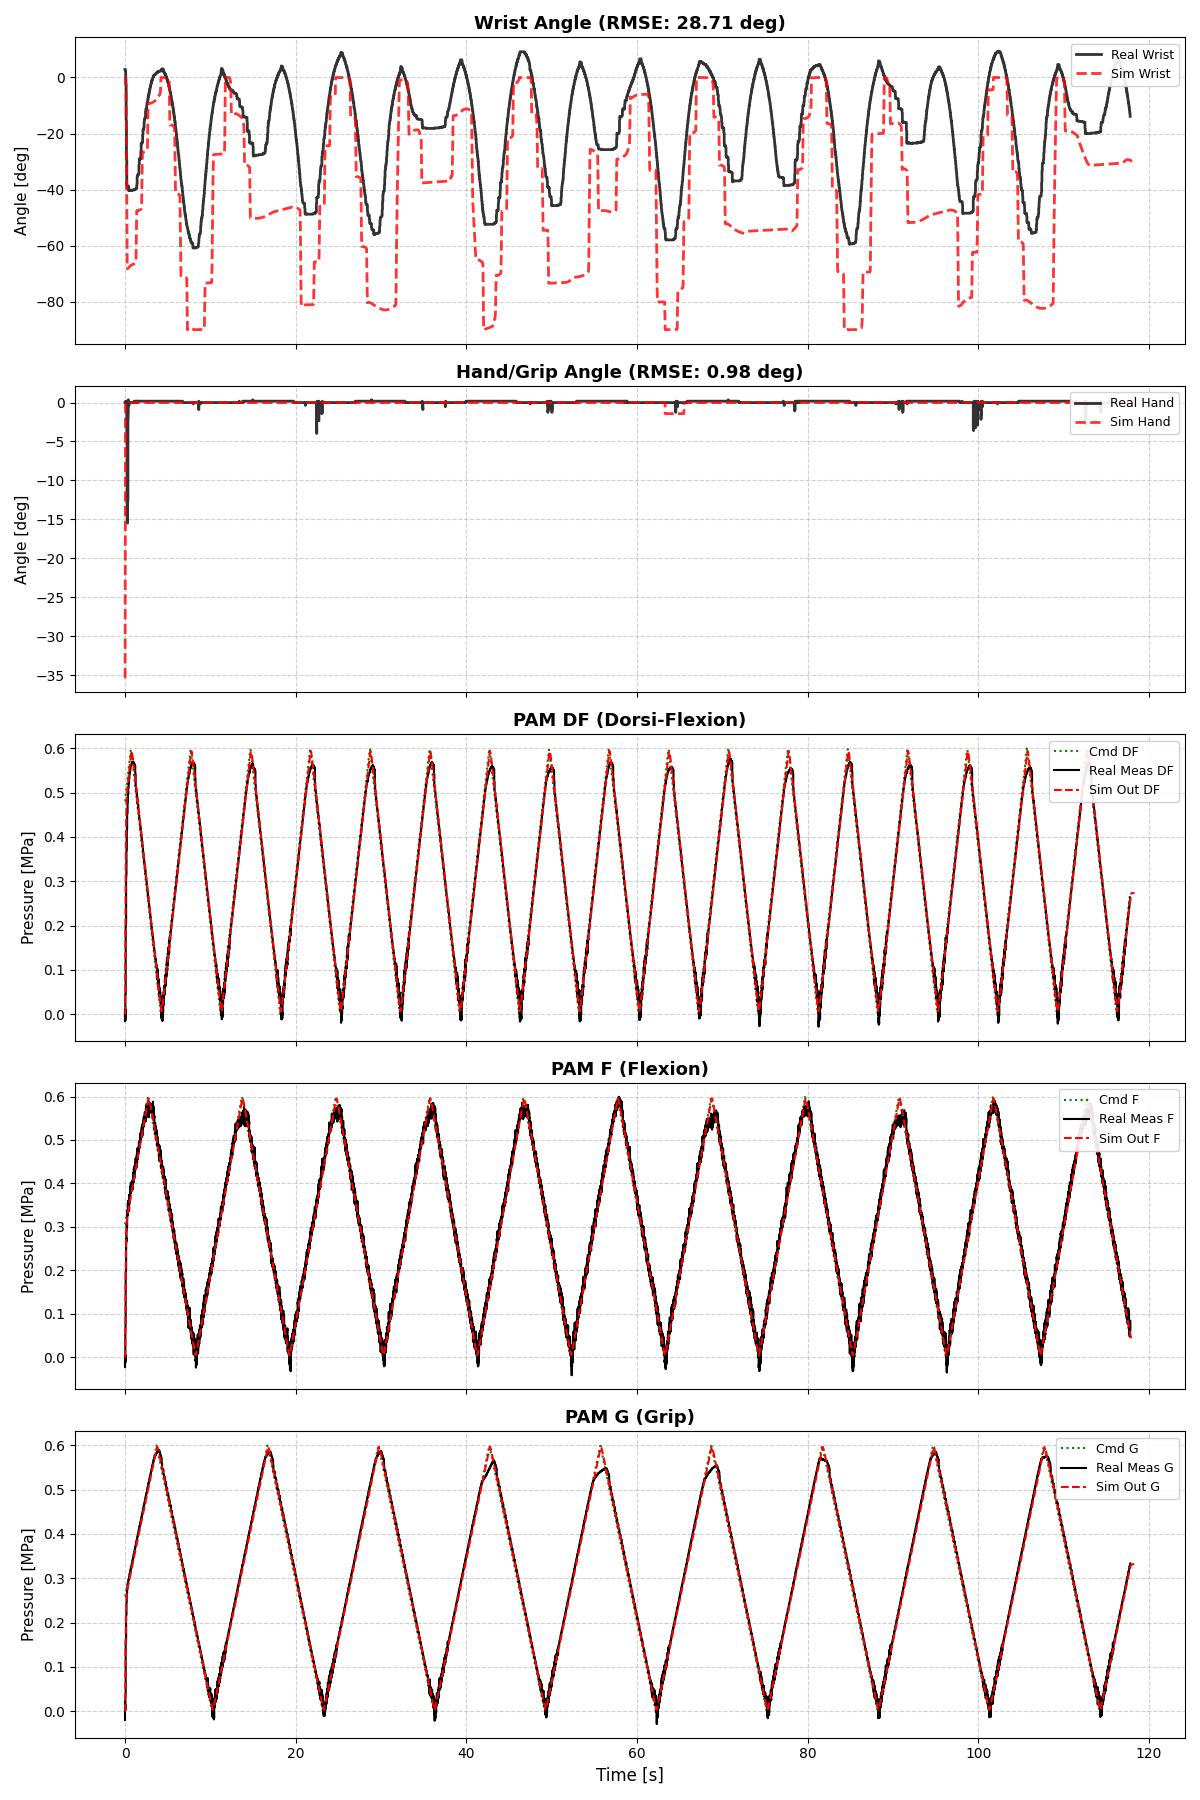
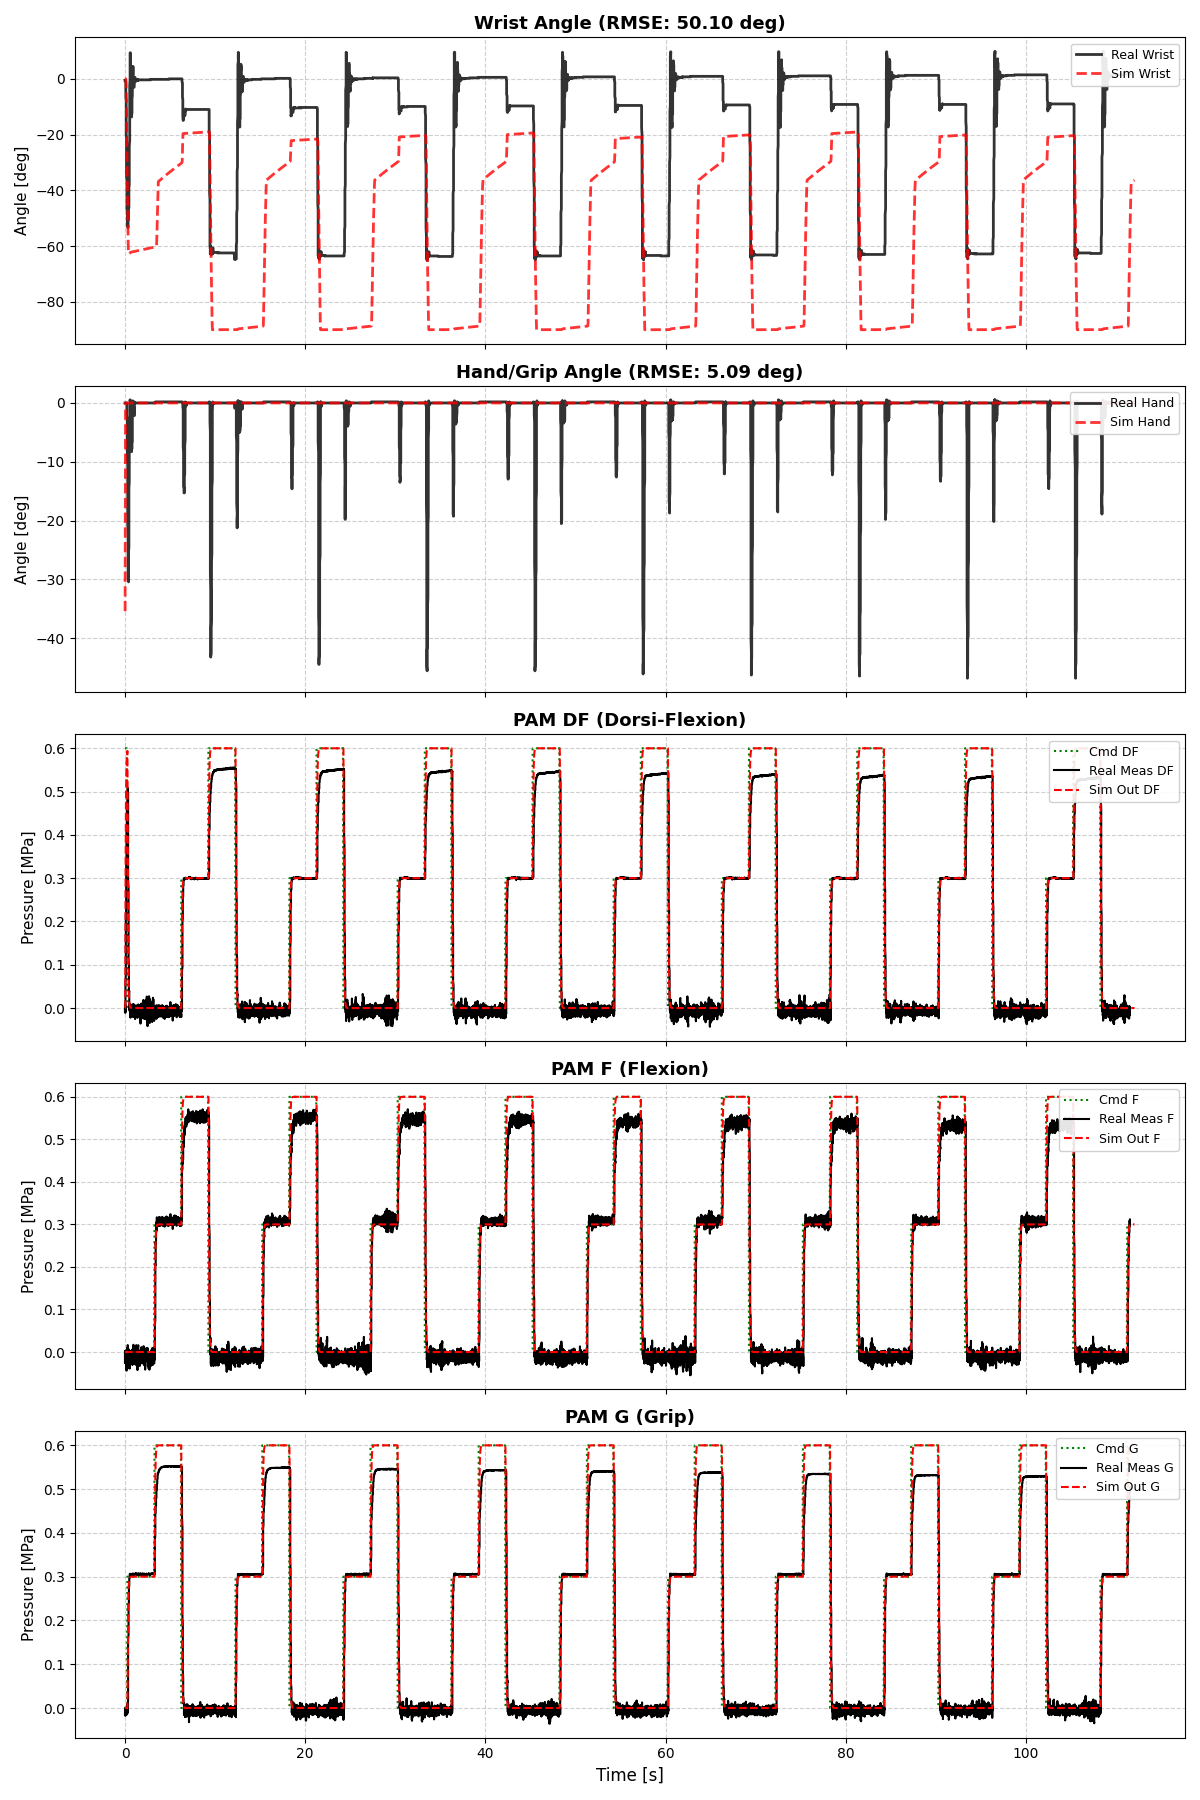
using_simple_generator

diff --git a/source/porcaro_rl/porcaro_rl/tasks/direct/porcaro_rlv1/simple_rhythm_generator.py b/source/porcaro_rl/porcaro_rl/tasks/direct/porcaro_rlv1/simple_rhythm_generator.py
@@ -1,0 +1,118 @@
+# simple_rhythm_generator.py
+import torch
+import torch.nn.functional as F
+import numpy as np
+
+class SimpleRhythmGenerator:
+    """
+    Sim-to-Realデバッグ用の単純なリズム生成クラス。
+    固定パターン（Rudiments）を繰り返し生成し、基礎動作の習得を確認する。
+    """
+    def __init__(self, num_envs, device, dt, max_episode_length, 
+                 mode="single", bpm=60.0):
+        
+        self.num_envs = num_envs
+        self.device = device
+        self.dt = dt
+        self.max_steps = max_episode_length
+        
+        # --- 設定 ---
+        self.mode = mode  # "single", "double", "steady"
+        self.target_bpm = bpm
+        
+        # --- データバッファ ---
+        self.target_trajectories = torch.zeros(
+            (num_envs, max_episode_length), device=device, dtype=torch.float32
+        )
+        # 固定BPMで埋めておく
+        self.current_bpms = torch.full((num_envs,), bpm, device=device, dtype=torch.float32)
+        
+        # --- 波形生成用カーネル (RhythmGeneratorと共通仕様) ---
+        width_sec = 0.05
+        sigma = width_sec / 2.0
+        kernel_radius = int(width_sec / dt) 
+        t_vals = torch.arange(-kernel_radius, kernel_radius + 1, device=device, dtype=torch.float32) * dt
+        kernel = 20.0 * torch.exp(-0.5 * (t_vals / sigma) ** 2)
+        self.kernel = kernel.view(1, 1, -1)
+        self.kernel_padding = kernel_radius
+
+    def set_difficulty(self, level: float):
+        # シンプルモードでは難易度調整は行わない（API互換性のためのダミー）
+        pass
+
+    def reset(self, env_ids):
+        """
+        指定された環境IDに対して固定パターンの譜面を生成する。
+        """
+        num_reset = len(env_ids)
+        if num_reset == 0:
+            return
+
+        # スパイク行列の初期化
+        spikes = torch.zeros((num_reset, self.max_steps), device=self.device)
+        
+        # モードに応じたロジック
+        if self.mode == "single":
+            # 2秒に1回叩く (Sim-to-Realでの応答確認用)
+            interval_sec = 2.0
+            interval_steps = int(interval_sec / self.dt)
+            
+            # 0.5秒後から開始
+            start_step = int(0.5 / self.dt)
+            
+            for t in range(start_step, self.max_steps, interval_steps):
+                spikes[:, t] = 1.0
+
+        elif self.mode == "double":
+            # 2連打 (タタン……休み)
+            # サイクル: 2秒
+            cycle_sec = 2.0
+            cycle_steps = int(cycle_sec / self.dt)
+            
+            # 2打の間隔: 0.2秒 (速めの連打)
+            double_interval = int(0.2 / self.dt)
+            start_step = int(0.5 / self.dt)
+
+            for t in range(start_step, self.max_steps, cycle_steps):
+                if t < self.max_steps:
+                    spikes[:, t] = 1.0
+                if t + double_interval < self.max_steps:
+                    spikes[:, t + double_interval] = 1.0
+
+        elif self.mode == "steady":
+            # メトロノーム (一定BPMで叩き続ける)
+            beat_interval_sec = 60.0 / self.target_bpm
+            beat_steps = int(beat_interval_sec / self.dt)
+            
+            for t in range(int(0.5/self.dt), self.max_steps, beat_steps):
+                spikes[:, t] = 1.0
+
+        # --- 畳み込みによる波形生成 ---
+        spikes_reshaped = spikes.unsqueeze(1) # [Batch, 1, Length]
+        traj = F.conv1d(spikes_reshaped, self.kernel, padding=self.kernel_padding)
+        traj = traj.squeeze(1)
+        
+        # サイズ調整
+        if traj.shape[1] > self.max_steps:
+            traj = traj[:, :self.max_steps]
+        elif traj.shape[1] < self.max_steps:
+            traj = F.pad(traj, (0, self.max_steps - traj.shape[1]))
+
+        self.target_trajectories[env_ids] = traj
+        
+        # BPM情報は固定値を維持
+        self.current_bpms[env_ids] = self.target_bpm
+
+    def get_lookahead(self, current_time_step_indices, horizon_steps):
+        """GPU並列で先読みデータを取得 (RhythmGeneratorと同等)"""
+        offsets = torch.arange(horizon_steps, device=self.device)
+        indices = current_time_step_indices.unsqueeze(1) + offsets.unsqueeze(0)
+        valid_mask = indices < self.max_steps
+        safe_indices = indices.clamp(max=self.max_steps - 1)
+        vals = torch.gather(self.target_trajectories, 1, safe_indices)
+        return vals * valid_mask.float()
+
+    def get_current_target(self, current_time_step_indices):
+        """現在のターゲット値を取得"""
+        indices = current_time_step_indices.unsqueeze(1).clamp(max=self.max_steps-1)
+        return torch.gather(self.target_trajectories, 1, indices).squeeze(1)

diff --git a/source/porcaro_rl/porcaro_rl/tasks/direct/porcaro_rlv1/porcaro_rl_env.py b/source/porcaro_rl/porcaro_rl/tasks/direct/porcaro_rlv1/porcaro_rl_env.py
@@ -22,6 +22,7 @@ from .actions.torque import TorqueActionController
 from .logging.logging_manager import LoggingManager
 from .rewards.reward import RewardManager
 from .rhythm_generator import RhythmGenerator
+from .simple_rhythm_generator import SimpleRhythmGenerator
 
 
 class PorcaroRLEnv(DirectRLEnv):
@@ -116,24 +117,46 @@ class PorcaroRLEnv(DirectRLEnv):
             device=self.device,
         )
 
-        # リズム生成器
-        bpm_range = (
-            getattr(self.cfg.rewards, "bpm_min", 60.0),
-            getattr(self.cfg.rewards, "bpm_max", 160.0)
-        )
-        prob_rest = getattr(self.cfg.rewards, "prob_rest", 0.3)
-        prob_double = getattr(self.cfg.rewards, "prob_double", 0.2)
+        # =========================================================
+        # ★ 変更箇所: リズム生成器の切り替えロジック
+        # =========================================================
         self.dt_ctrl_step = self.cfg.sim.dt * self.cfg.decimation
+        
+        # Configに追加したフラグを確認 (デフォルトFalseとして安全に取得)
+        use_simple = getattr(self.cfg, "use_simple_rhythm", False)
 
-        self.rhythm_generator = RhythmGenerator(
-            num_envs=self.num_envs,
-            device=self.device,
-            dt=self.dt_ctrl_step,
-            max_episode_length=self.max_episode_length,
-            bpm_range=bpm_range,
-            prob_rest=prob_rest,
-            prob_double=prob_double
-        )
+        if use_simple:
+            # デバッグ用の単純生成器を使用
+            mode = getattr(self.cfg, "simple_rhythm_mode", "single")
+            bpm = getattr(self.cfg, "simple_rhythm_bpm", 60.0)
+            
+            print(f"[INFO] SimpleRhythmGeneratorを使用します (Mode: {mode}, BPM: {bpm})")
+            self.rhythm_generator = SimpleRhythmGenerator(
+                num_envs=self.num_envs,
+                device=self.device,
+                dt=self.dt_ctrl_step,
+                max_episode_length=self.max_episode_length,
+                mode=mode,
+                bpm=bpm
+            )
+        else:
+            # 本番学習用のランダム生成器を使用
+            bpm_range = (
+                getattr(self.cfg.rewards, "bpm_min", 60.0),
+                getattr(self.cfg.rewards, "bpm_max", 160.0)
+            )
+            prob_rest = getattr(self.cfg.rewards, "prob_rest", 0.3)
+            prob_double = getattr(self.cfg.rewards, "prob_double", 0.2)
+            
+            self.rhythm_generator = RhythmGenerator(
+                num_envs=self.num_envs,
+                device=self.device,
+                dt=self.dt_ctrl_step,
+                max_episode_length=self.max_episode_length,
+                bpm_range=bpm_range,
+                prob_rest=prob_rest,
+                prob_double=prob_double
+            )
         
         lookahead_horizon = getattr(self.cfg, "lookahead_horizon", 0.5)
         self.lookahead_steps = int(lookahead_horizon / self.dt_ctrl_step)

diff --git a/source/porcaro_rl/porcaro_rl/tasks/direct/porcaro_rlv1/porcaro_rl_env_cfg.py b/source/porcaro_rl/porcaro_rl/tasks/direct/porcaro_rlv1/porcaro_rl_env_cfg.py
@@ -75,6 +75,13 @@ class PorcaroRLEnvCfg(DirectRLEnvCfg):
     
     dof_names: list[str] = ["Base_link_Wrist_joint", "Hand_link_Grip_joint"]
 
+    # ===================================================
+    # ★ 追加箇所: シンプルリズム生成設定
+    # ===================================================
+    use_simple_rhythm: bool = True   # TrueにするとSimpleRhythmGeneratorを使用
+    simple_rhythm_mode: str = "single" # "single", "double", "steady"
+    simple_rhythm_bpm: float = 60.0    # steadyモード時のBPM
+
     # --- 追加設定 ---
     lookahead_horizon: float = 0.5
 

diff --git a/scripts/analyze_sim_real.py b/scripts/analyze_sim_real.py
@@ -19,8 +19,8 @@ def main():
 
     # 実機データとSimデータのファイル名
     # ※ 必要に応じてファイル名を変更してください
-    real_csv_name = "01-11-hysteresis.csv"
-    sim_csv_name = "verify_ModelA_Ideal_REPLAY_01-11-hysteresis.csv"
+    real_csv_name = "01-11-step.csv"
+    sim_csv_name = "verify_ModelA_Ideal_REPLAY_01-11-step.csv"
 
     real_csv_path = os.path.join(project_root, "external_data", "jetson_project", real_csv_name)
     sim_csv_path = os.path.join(project_root, sim_csv_name)

diff --git a/source/porcaro_rl/porcaro_rl/tasks/direct/porcaro_rlv1/cfg/assets.py b/source/porcaro_rl/porcaro_rl/tasks/direct/porcaro_rlv1/cfg/assets.py
@@ -89,7 +89,7 @@ ROBOT_CFG = ArticulationCfg(
         "wrist": ImplicitActuatorCfg(
             joint_names_expr=["Base_link_Wrist_joint"],
             stiffness=0.0,
-            damping=0.1,
+            damping=0.2,
             effort_limit_sim=500.0,
             friction=1,
         ),
